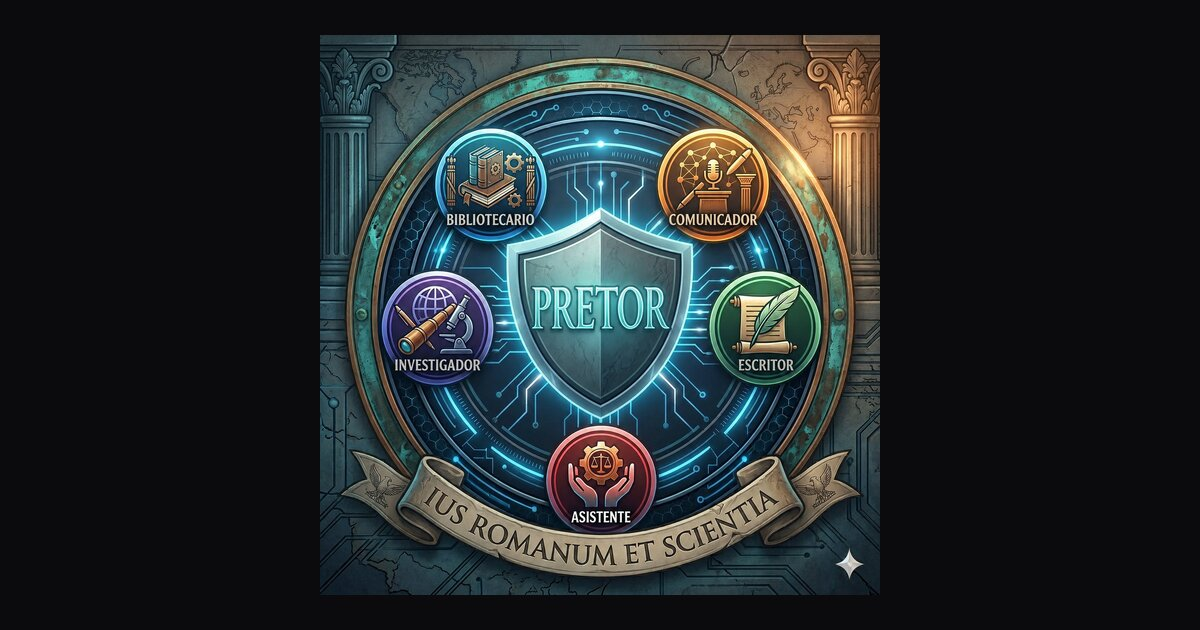
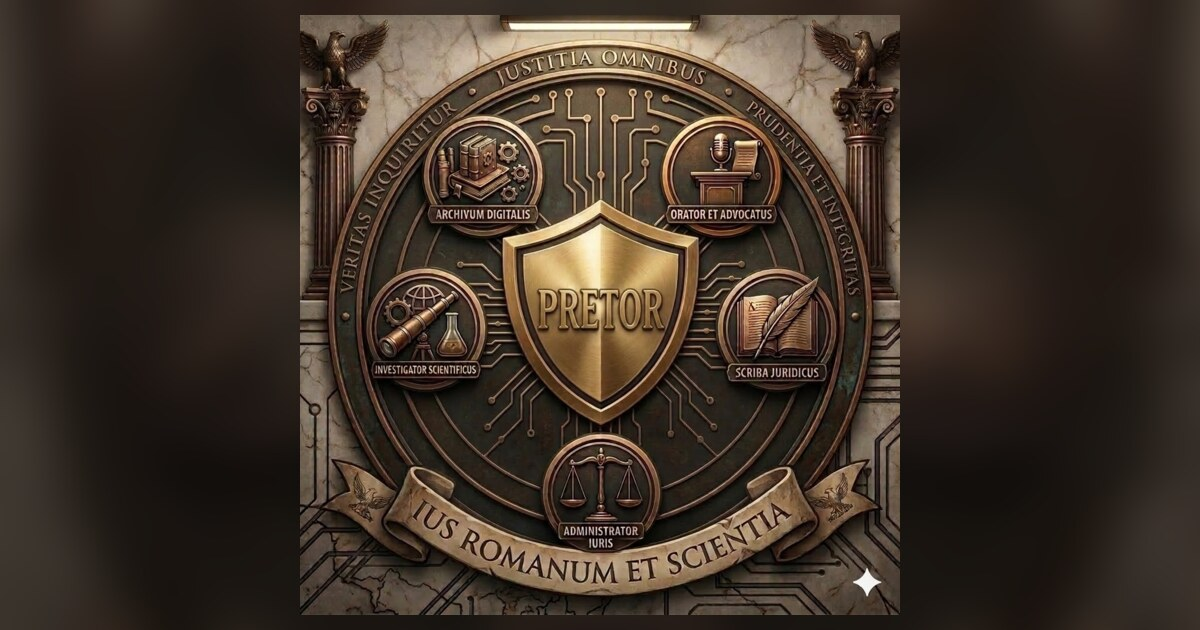
deploy: fedesapuppo/personal-website@954c847724f6e18f85d71200543ace2da914a518

diff --git a/pretor/index.html b/pretor/index.html
@@ -1,4 +1,4 @@
-<!DOCTYPE html><html lang="es" data-astro-cid-5hce7sga> <head><meta charset="utf-8"><meta name="viewport" content="width=device-width, initial-scale=1"><meta name="generator" content="Astro v5.18.2"><link rel="icon" href="/pretor/favicon.svg" type="image/svg+xml"><title>Pretor — AI Legal Framework para tu estudio jurídico</title><meta name="description" content="El marco de IA que dirige todo tu estudio jurídico: agentes que investigan, redactan, gestionan agenda y correo, y atienden a tus clientes."><meta name="theme-color" content="#0b0b0e"><link rel="canonical" href="https://fedesapuppo.com/pretor/"><meta property="og:type" content="website"><meta property="og:title" content="Pretor — AI Legal Framework para tu estudio jurídico"><meta property="og:description" content="El marco de IA que dirige todo tu estudio jurídico: agentes que investigan, redactan, gestionan agenda y correo, y atienden a tus clientes."><meta property="og:locale" content="es_AR"><meta property="og:site_name" content="Pretor"><meta property="og:url" content="https://fedesapuppo.com/pretor/"><meta property="og:image" content="https://fedesapuppo.com/pretor/og.jpg"><meta property="og:image:secure_url" content="https://fedesapuppo.com/pretor/og.jpg"><meta property="og:image:type" content="image/jpeg"><meta property="og:image:width" content="1200"><meta property="og:image:height" content="630"><meta property="og:image:alt" content="Escudo de Pretor con sus seis agentes: Bibliotecario, Comunicador, Investigador, Escritor y Asistente, bajo el lema Ius Romanum et Scientia."><meta name="twitter:card" content="summary_large_image"><meta name="twitter:title" content="Pretor — AI Legal Framework para tu estudio jurídico"><meta name="twitter:description" content="El marco de IA que dirige todo tu estudio jurídico: agentes que investigan, redactan, gestionan agenda y correo, y atienden a tus clientes."><meta name="twitter:image" content="https://fedesapuppo.com/pretor/og.jpg"><meta name="twitter:image:alt" content="Escudo de Pretor con sus seis agentes: Bibliotecario, Comunicador, Investigador, Escritor y Asistente, bajo el lema Ius Romanum et Scientia."><link rel="preconnect" href="https://fonts.googleapis.com"><link rel="preconnect" href="https://fonts.gstatic.com" crossorigin><link href="https://fonts.googleapis.com/css2?family=Cinzel:wght@500;600&family=Inter:wght@400;500;600&family=JetBrains+Mono:wght@400;500&display=swap" rel="stylesheet"><link rel="stylesheet" href="/pretor/_astro/index.edUtr7Fi.css"><link rel="stylesheet" href="/pretor/_astro/pretor-refine.css"></head> <body data-astro-cid-5hce7sga> <a class="skip-link" href="#contenido" data-astro-cid-5hce7sga>Saltar al contenido</a> <header class="nav" data-nav data-astro-cid-dmqpwcec> <div class="nav__inner wrap" data-astro-cid-dmqpwcec> <a class="brand" href="#top" aria-label="Pretor, inicio" data-astro-cid-dmqpwcec> <span class="brand__tick" aria-hidden="true" data-astro-cid-dmqpwcec></span> <span class="brand__word" data-astro-cid-dmqpwcec>PRETOR</span> </a> <nav class="nav__links" aria-label="Principal" data-astro-cid-dmqpwcec> <a href="#marco" data-astro-cid-dmqpwcec>Marco</a><a href="#capacidades" data-astro-cid-dmqpwcec>Capacidades</a><a href="#agentes" data-astro-cid-dmqpwcec>Agentes</a><a href="#seguridad" data-astro-cid-dmqpwcec>Seguridad</a> <a class="nav__cta" href="#contacto" data-astro-cid-dmqpwcec>Contacto</a> </nav> <button class="nav__toggle" data-toggle aria-expanded="false" aria-controls="nav-panel" data-astro-cid-dmqpwcec> <span class="visually-hidden" data-astro-cid-dmqpwcec>Abrir menú</span> <span class="nav__bars" aria-hidden="true" data-astro-cid-dmqpwcec></span> </button> </div> <div class="nav__panel" id="nav-panel" data-panel hidden data-astro-cid-dmqpwcec> <a href="#marco" data-close data-astro-cid-dmqpwcec>Marco</a><a href="#capacidades" data-close data-astro-cid-dmqpwcec>Capacidades</a><a href="#agentes" data-close data-astro-cid-dmqpwcec>Agentes</a><a href="#seguridad" data-close data-astro-cid-dmqpwcec>Seguridad</a> <a href="#contacto" class="nav__panel-cta" data-close data-astro-cid-dmqpwcec>Contacto</a> </div> </header>  <script type="module">const e=document.querySelector("[data-nav]"),a=e?.querySelector("[data-toggle]"),t=e?.querySelector("[data-panel]");a?.addEventListener("click",()=>{e?.hasAttribute("data-open")?(e?.removeAttribute("data-open"),a.setAttribute("aria-expanded","false"),t&&(t.hidden=!0)):(e?.setAttribute("data-open",""),a.setAttribute("aria-expanded","true"),t&&(t.hidden=!1))});e?.querySelectorAll("[data-close]").forEach(r=>r.addEventListener("click",()=>{e?.removeAttribute("data-open"),a?.setAttribute("aria-expanded","false"),t&&(t.hidden=!0)}));const d=()=>{window.scrollY>12?e?.setAttribute("data-scrolled",""):e?.removeAttribute("data-scrolled")};d();window.addEventListener("scroll",d,{passive:!0});</script> <main id="contenido" data-astro-cid-5hce7sga>  <section class="hero" id="top" data-astro-cid-bbe6dxrz> <div class="hero__intro wrap" data-astro-cid-bbe6dxrz> <p class="eyebrow reveal" data-astro-cid-bbe6dxrz>Marco legal con inteligencia artificial</p> <h1 class="display hero__title reveal" data-astro-cid-bbe6dxrz>
+<!DOCTYPE html><html lang="es" data-astro-cid-5hce7sga> <head><meta charset="utf-8"><meta name="viewport" content="width=device-width, initial-scale=1"><meta name="generator" content="Astro v5.18.2"><link rel="icon" href="/pretor/favicon.svg" type="image/svg+xml"><title>Pretor — Inteligencia artificial para tu estudio jurídico</title><meta name="description" content="El marco de IA que dirige todo tu estudio jurídico: agentes que investigan, redactan, gestionan agenda y correo, y atienden a tus clientes."><meta name="theme-color" content="#0b0b0e"><link rel="canonical" href="https://fedesapuppo.com/pretor/"><meta property="og:type" content="website"><meta property="og:title" content="Pretor — Inteligencia artificial para tu estudio jurídico"><meta property="og:description" content="El marco de IA que dirige todo tu estudio jurídico: agentes que investigan, redactan, gestionan agenda y correo, y atienden a tus clientes."><meta property="og:locale" content="es_AR"><meta property="og:site_name" content="Pretor"><meta property="og:url" content="https://fedesapuppo.com/pretor/"><meta property="og:image" content="https://fedesapuppo.com/pretor/og.jpg"><meta property="og:image:secure_url" content="https://fedesapuppo.com/pretor/og.jpg"><meta property="og:image:type" content="image/jpeg"><meta property="og:image:width" content="1200"><meta property="og:image:height" content="630"><meta property="og:image:alt" content="Escudo de Pretor con sus seis agentes: Bibliotecario, Comunicador, Investigador, Escritor y Asistente, bajo el lema Ius Romanum et Scientia."><meta name="twitter:card" content="summary_large_image"><meta name="twitter:title" content="Pretor — Inteligencia artificial para tu estudio jurídico"><meta name="twitter:description" content="El marco de IA que dirige todo tu estudio jurídico: agentes que investigan, redactan, gestionan agenda y correo, y atienden a tus clientes."><meta name="twitter:image" content="https://fedesapuppo.com/pretor/og.jpg"><meta name="twitter:image:alt" content="Escudo de Pretor con sus seis agentes: Bibliotecario, Comunicador, Investigador, Escritor y Asistente, bajo el lema Ius Romanum et Scientia."><link rel="preconnect" href="https://fonts.googleapis.com"><link rel="preconnect" href="https://fonts.gstatic.com" crossorigin><link href="https://fonts.googleapis.com/css2?family=Cinzel:wght@500;600&family=Inter:wght@400;500;600&family=JetBrains+Mono:wght@400;500&display=swap" rel="stylesheet"><link rel="stylesheet" href="/pretor/_astro/index.edUtr7Fi.css"><link rel="stylesheet" href="/pretor/_astro/pretor-refine.css"></head> <body data-astro-cid-5hce7sga> <a class="skip-link" href="#contenido" data-astro-cid-5hce7sga>Saltar al contenido</a> <header class="nav" data-nav data-astro-cid-dmqpwcec> <div class="nav__inner wrap" data-astro-cid-dmqpwcec> <a class="brand" href="#top" aria-label="Pretor, inicio" data-astro-cid-dmqpwcec> <span class="brand__tick" aria-hidden="true" data-astro-cid-dmqpwcec></span> <span class="brand__word" data-astro-cid-dmqpwcec>PRETOR</span> </a> <nav class="nav__links" aria-label="Principal" data-astro-cid-dmqpwcec> <a href="#marco" data-astro-cid-dmqpwcec>Marco</a><a href="#capacidades" data-astro-cid-dmqpwcec>Capacidades</a><a href="#agentes" data-astro-cid-dmqpwcec>Agentes</a><a href="#seguridad" data-astro-cid-dmqpwcec>Seguridad</a> <a class="nav__cta" href="#contacto" data-astro-cid-dmqpwcec>Contacto</a> </nav> <button class="nav__toggle" data-toggle aria-expanded="false" aria-controls="nav-panel" data-astro-cid-dmqpwcec> <span class="visually-hidden" data-astro-cid-dmqpwcec>Abrir menú</span> <span class="nav__bars" aria-hidden="true" data-astro-cid-dmqpwcec></span> </button> </div> <div class="nav__panel" id="nav-panel" data-panel hidden data-astro-cid-dmqpwcec> <a href="#marco" data-close data-astro-cid-dmqpwcec>Marco</a><a href="#capacidades" data-close data-astro-cid-dmqpwcec>Capacidades</a><a href="#agentes" data-close data-astro-cid-dmqpwcec>Agentes</a><a href="#seguridad" data-close data-astro-cid-dmqpwcec>Seguridad</a> <a href="#contacto" class="nav__panel-cta" data-close data-astro-cid-dmqpwcec>Contacto</a> </div> </header>  <script type="module">const e=document.querySelector("[data-nav]"),a=e?.querySelector("[data-toggle]"),t=e?.querySelector("[data-panel]");a?.addEventListener("click",()=>{e?.hasAttribute("data-open")?(e?.removeAttribute("data-open"),a.setAttribute("aria-expanded","false"),t&&(t.hidden=!0)):(e?.setAttribute("data-open",""),a.setAttribute("aria-expanded","true"),t&&(t.hidden=!1))});e?.querySelectorAll("[data-close]").forEach(r=>r.addEventListener("click",()=>{e?.removeAttribute("data-open"),a?.setAttribute("aria-expanded","false"),t&&(t.hidden=!0)}));const d=()=>{window.scrollY>12?e?.setAttribute("data-scrolled",""):e?.removeAttribute("data-scrolled")};d();window.addEventListener("scroll",d,{passive:!0});</script> <main id="contenido" data-astro-cid-5hce7sga>  <section class="hero" id="top" data-astro-cid-bbe6dxrz> <div class="hero__intro wrap" data-astro-cid-bbe6dxrz> <p class="eyebrow reveal" data-astro-cid-bbe6dxrz>Marco legal con inteligencia artificial</p> <h1 class="display hero__title reveal" data-astro-cid-bbe6dxrz>
 Un equipo de agentes para dirigir
 <em data-astro-cid-bbe6dxrz>todo tu estudio jurídico</em>.
 </h1> <p class="lead hero__lead reveal" data-astro-cid-bbe6dxrz>
@@ -8,7 +8,7 @@ Pretor investiga, redacta, custodia expedientes, gestiona agenda y correo,
 </p> <div class="hero__cta reveal" data-astro-cid-bbe6dxrz> <a class="btn btn--primary" href="mailto:[email redacted]?subject=Quiero%20conocer%20Pretor" data-astro-cid-bbe6dxrz>Solicitar más info</a> <a class="btn btn--ghost" href="#marco" data-astro-cid-bbe6dxrz>Conocer el marco</a> </div> </div> <div class="hero__split" data-astro-cid-bbe6dxrz> <div class="hero__world hero__world--roman" data-astro-cid-bbe6dxrz> <p class="eyebrow" data-astro-cid-bbe6dxrz>Ius · Tradición</p> <p class="hero__world-title display" data-astro-cid-bbe6dxrz>El rigor del derecho romano.</p> <p class="hero__world-text" data-astro-cid-bbe6dxrz>
 Una jerarquía clara, una autoridad que coordina, una regla
         inquebrantable.
-</p> <p class="maxim" data-astro-cid-bbe6dxrz>Iura novit curia</p> </div> <div class="hero__world hero__world--ai" data-astro-cid-bbe6dxrz> <p class="eyebrow" data-astro-cid-bbe6dxrz>// AI · Framework</p> <p class="hero__world-title hero__world-title--ai" data-astro-cid-bbe6dxrz>La precisión de un equipo.</p> <ul class="hero__agents" data-astro-cid-bbe6dxrz> <li data-astro-cid-bbe6dxrz> <b data-astro-cid-bbe6dxrz>pretor</b><span data-astro-cid-bbe6dxrz>→ orquesta</span> </li><li data-astro-cid-bbe6dxrz> <b data-astro-cid-bbe6dxrz>investigador</b><span data-astro-cid-bbe6dxrz>→ fuentes oficiales</span> </li><li data-astro-cid-bbe6dxrz> <b data-astro-cid-bbe6dxrz>bibliotecario</b><span data-astro-cid-bbe6dxrz>→ expedientes</span> </li><li data-astro-cid-bbe6dxrz> <b data-astro-cid-bbe6dxrz>escritor</b><span data-astro-cid-bbe6dxrz>→ redacción</span> </li><li data-astro-cid-bbe6dxrz> <b data-astro-cid-bbe6dxrz>secretario</b><span data-astro-cid-bbe6dxrz>→ agenda · correo</span> </li><li data-astro-cid-bbe6dxrz> <b data-astro-cid-bbe6dxrz>comunicador</b><span data-astro-cid-bbe6dxrz>→ clientes · redes</span> </li> </ul> </div> <span class="hero__seam" aria-hidden="true" data-astro-cid-bbe6dxrz></span> </div> </section>  <section class="section section--stone marco" id="marco" data-astro-cid-z2ekr6xw> <div class="wrap" data-astro-cid-z2ekr6xw> <div class="section-head reveal" data-astro-cid-z2ekr6xw> <p class="eyebrow" data-astro-cid-z2ekr6xw>Qué es Pretor</p> <h2 class="display" data-astro-cid-z2ekr6xw>
+</p> <p class="maxim" data-astro-cid-bbe6dxrz>Iura novit curia</p> </div> <div class="hero__world hero__world--ai" data-astro-cid-bbe6dxrz> <p class="eyebrow" data-astro-cid-bbe6dxrz>// IA · Tecnología</p> <p class="hero__world-title hero__world-title--ai" data-astro-cid-bbe6dxrz>La precisión de un equipo.</p> <ul class="hero__agents" data-astro-cid-bbe6dxrz> <li data-astro-cid-bbe6dxrz> <b data-astro-cid-bbe6dxrz>pretor</b><span data-astro-cid-bbe6dxrz>→ orquesta</span> </li><li data-astro-cid-bbe6dxrz> <b data-astro-cid-bbe6dxrz>investigador</b><span data-astro-cid-bbe6dxrz>→ fuentes oficiales</span> </li><li data-astro-cid-bbe6dxrz> <b data-astro-cid-bbe6dxrz>bibliotecario</b><span data-astro-cid-bbe6dxrz>→ expedientes</span> </li><li data-astro-cid-bbe6dxrz> <b data-astro-cid-bbe6dxrz>escritor</b><span data-astro-cid-bbe6dxrz>→ redacción</span> </li><li data-astro-cid-bbe6dxrz> <b data-astro-cid-bbe6dxrz>secretario</b><span data-astro-cid-bbe6dxrz>→ agenda · correo</span> </li><li data-astro-cid-bbe6dxrz> <b data-astro-cid-bbe6dxrz>comunicador</b><span data-astro-cid-bbe6dxrz>→ clientes · redes</span> </li> </ul> </div> <span class="hero__seam" aria-hidden="true" data-astro-cid-bbe6dxrz></span> </div> </section>  <section class="section section--stone marco" id="marco" data-astro-cid-z2ekr6xw> <div class="wrap" data-astro-cid-z2ekr6xw> <div class="section-head reveal" data-astro-cid-z2ekr6xw> <p class="eyebrow" data-astro-cid-z2ekr6xw>Qué es Pretor</p> <h2 class="display" data-astro-cid-z2ekr6xw>
 El criterio de un estudio, ejecutado por una máquina disciplinada.
 </h2> <p class="lead" data-astro-cid-z2ekr6xw>
 Pretor es un marco de inteligencia artificial para estudios jurídicos:
@@ -44,4 +44,4 @@ Te mostramos cómo funciona con un caso real de tu práctica. Sin
       compromiso.
 </p> <div class="contacto__cta" data-astro-cid-xjughlio> <a class="btn btn--primary" href="mailto:[email redacted]?subject=Quiero%20conocer%20Pretor" data-astro-cid-xjughlio>
 Escribinos
-</a> </div> <p class="contacto__mail" data-astro-cid-xjughlio> <a href="mailto:[email redacted]" data-astro-cid-xjughlio>[email redacted]</a> </p> <p class="contacto__maxim maxim" data-astro-cid-xjughlio>Fiat iustitia</p> </div> </section>   </main> <footer class="footer section--dark" data-astro-cid-sz7xmlte> <div class="wrap footer__inner" data-astro-cid-sz7xmlte> <div class="footer__brand" data-astro-cid-sz7xmlte> <span class="footer__word" data-astro-cid-sz7xmlte>PRETOR</span> <span class="footer__maxim" data-astro-cid-sz7xmlte>Iura novit curia</span> <span class="footer__tag" data-astro-cid-sz7xmlte>AI Legal Framework</span> </div> <div class="footer__base" data-astro-cid-sz7xmlte> <span data-astro-cid-sz7xmlte>© 2026 Pretor</span> <span data-astro-cid-sz7xmlte>Hecho para el estudio jurídico moderno.</span> </div> </div> </footer>  <script type="module">const t=document.querySelectorAll(".reveal");if("IntersectionObserver"in window&&t.length){const e=new IntersectionObserver(s=>{for(const r of s)r.isIntersecting&&(r.target.classList.add("is-visible"),e.unobserve(r.target))},{rootMargin:"0px 0px -10% 0px",threshold:.08});t.forEach(s=>e.observe(s))}else t.forEach(e=>e.classList.add("is-visible"));</script>  </body> </html>
+</a> </div> <p class="contacto__mail" data-astro-cid-xjughlio> <a href="mailto:[email redacted]" data-astro-cid-xjughlio>[email redacted]</a> </p> <p class="contacto__maxim maxim" data-astro-cid-xjughlio>Fiat iustitia</p> </div> </section>   </main> <footer class="footer section--dark" data-astro-cid-sz7xmlte> <div class="wrap footer__inner" data-astro-cid-sz7xmlte> <div class="footer__brand" data-astro-cid-sz7xmlte> <span class="footer__word" data-astro-cid-sz7xmlte>PRETOR</span> <span class="footer__maxim" data-astro-cid-sz7xmlte>Iura novit curia</span> <span class="footer__tag" data-astro-cid-sz7xmlte>Inteligencia artificial para estudios jurídicos</span> </div> <div class="footer__base" data-astro-cid-sz7xmlte> <span data-astro-cid-sz7xmlte>© 2026 Pretor</span> <span data-astro-cid-sz7xmlte>Hecho para el estudio jurídico moderno.</span> </div> </div> </footer>  <script type="module">const t=document.querySelectorAll(".reveal");if("IntersectionObserver"in window&&t.length){const e=new IntersectionObserver(s=>{for(const r of s)r.isIntersecting&&(r.target.classList.add("is-visible"),e.unobserve(r.target))},{rootMargin:"0px 0px -10% 0px",threshold:.08});t.forEach(s=>e.observe(s))}else t.forEach(e=>e.classList.add("is-visible"));</script>  </body> </html>